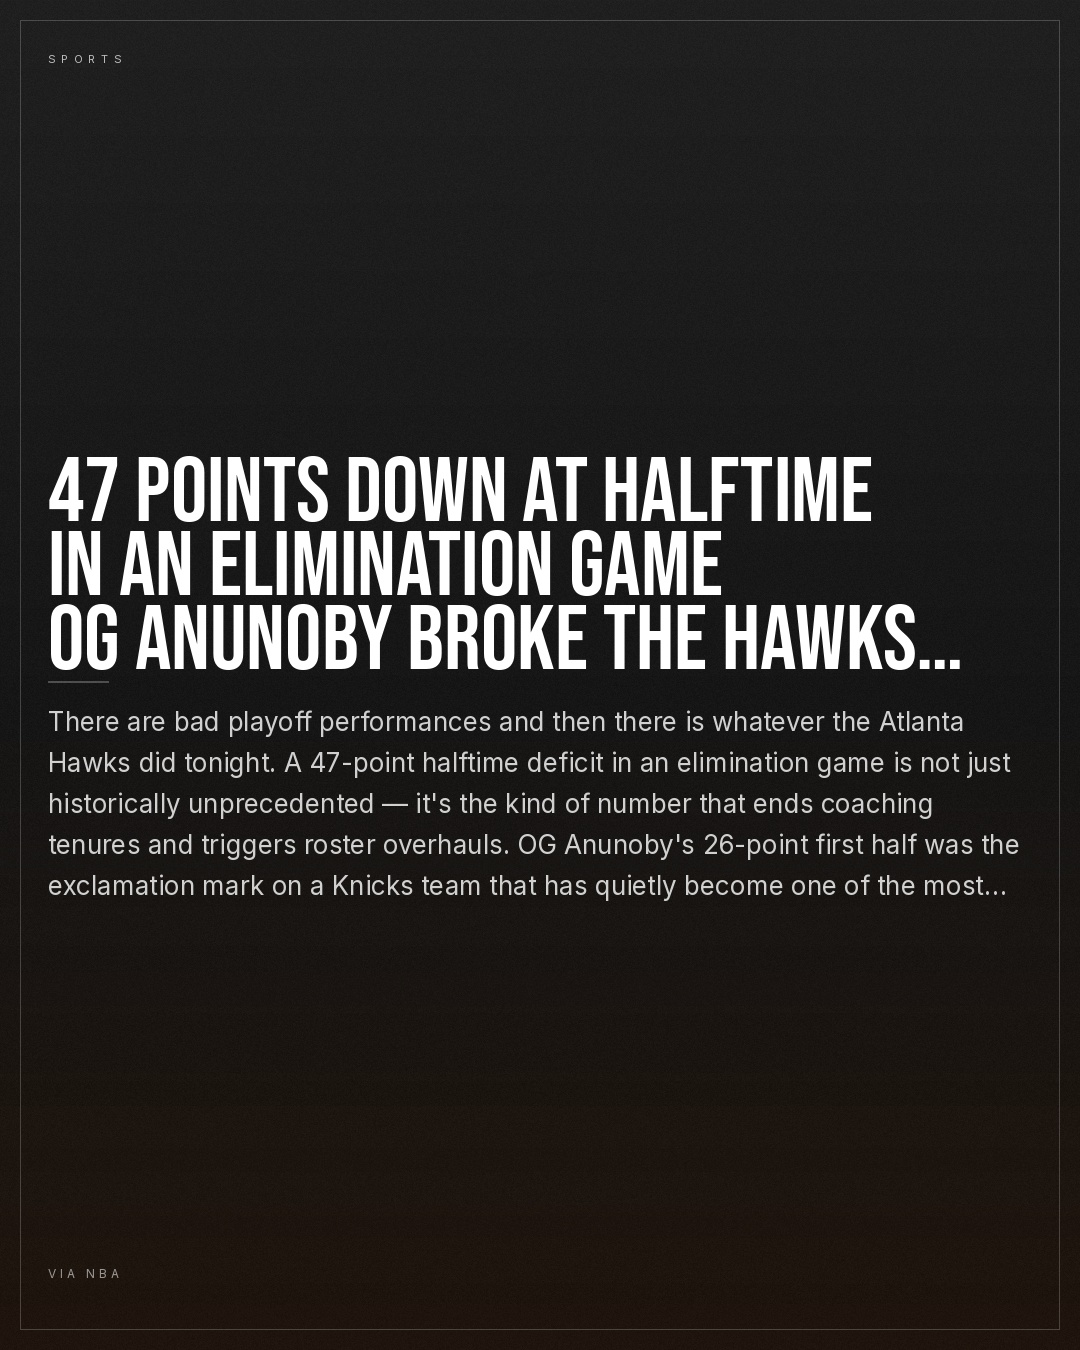
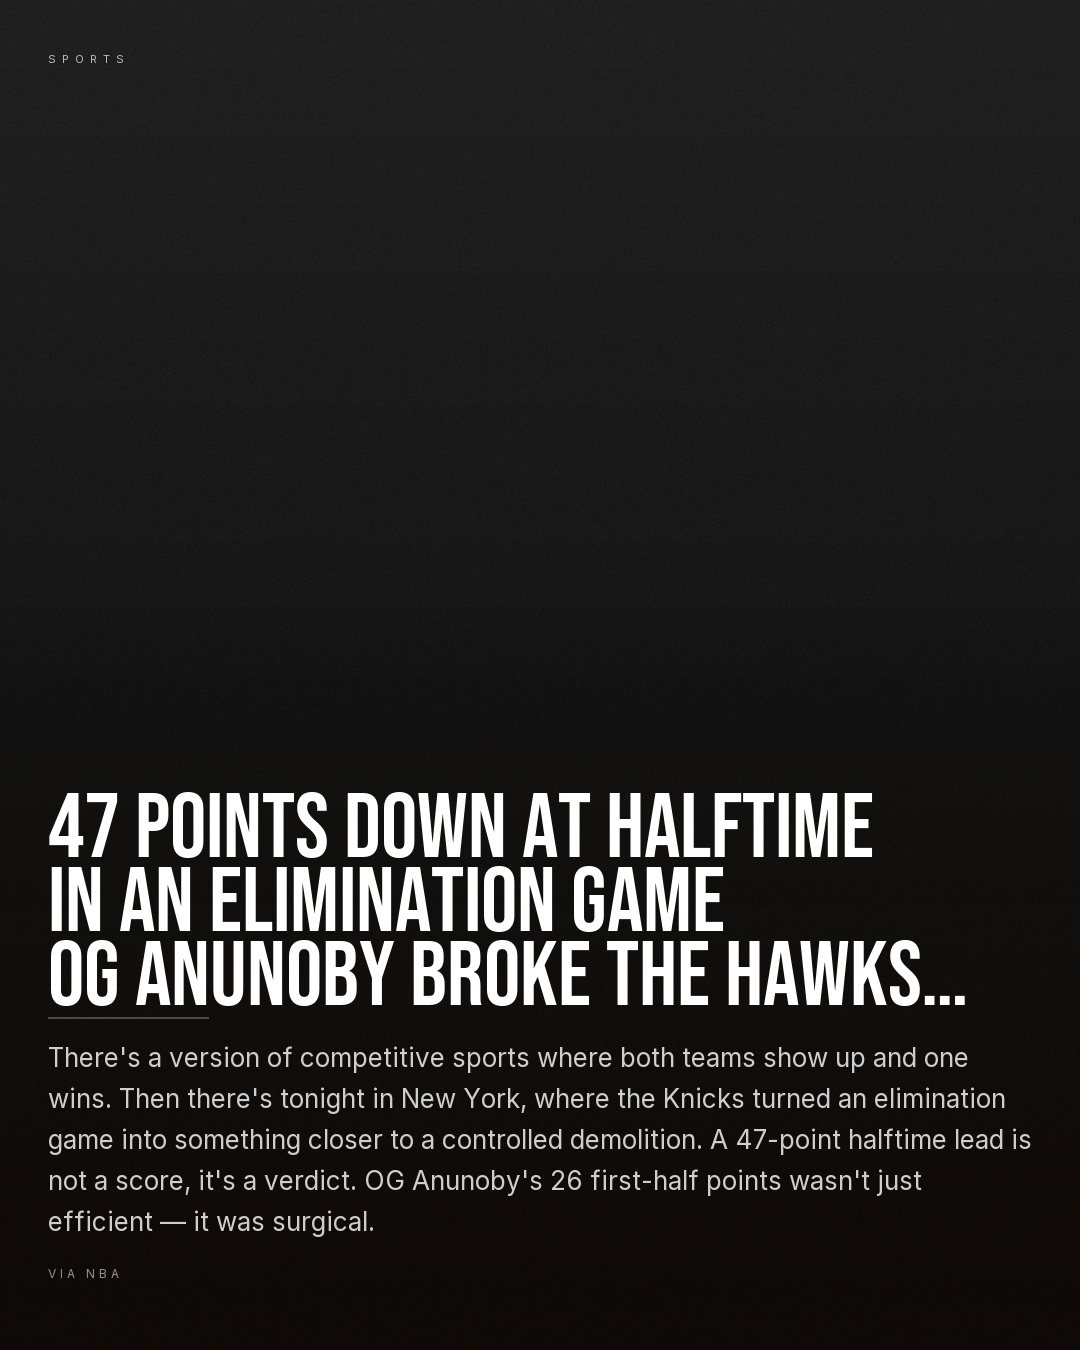
regen: 2026-05-01 digest slides with sentence-aware body copy and substack text

Changed region(s): [[0.0306, 0.5289, 0.9472, 0.7467], [0.0306, 0.3111, 0.8861, 0.4978], [0.0306, 0.7778, 0.9472, 0.9333]]

diff --git a/digests/2026-05-01/digest.md b/digests/2026-05-01/digest.md
@@ -6,21 +6,21 @@
 **As Tim Cook steps down, Apple hit record sales — but a chip shortage looms**  
 *TechCrunch*
 
-> The Cook era ends at Apple's peak — and its next problem.
+> The Cook era ends as the next Apple crisis quietly begins.
 
 ### Platform Copy
 
 **Instagram**
-Tim Cook leaves on top. Record March quarter. Best numbers in Apple history. And yet — chip shortages are already circling the next chapter. The era ends clean. What comes next probably won't.
+Tim Cook exits on a record quarter. Apple's best March numbers ever — and a chip shortage already waiting at the door. One era closes, another begins with its own set of problems.
 
 **TikTok**
-Tim Cook out. Apple at its peak. Chip shortage incoming. The exit couldn't be more perfectly timed — or more unsettling.
+Tim Cook leaving Apple on a record quarter is the most Tim Cook way to leave Apple. Graceful exit. Chaos incoming.
 
 **Threads**
-Cook leaves with the best March quarter Apple has ever had and a chip shortage warning in the same breath. Whoever takes over inherits both the crown and the problem.
+Tim Cook steps down while Apple posts its best March quarter ever AND warns of a chip shortage. The man left the building in perfect order. Whatever comes next is someone else's problem.
 
 **Substack**
-Tim Cook's departure lands with a strange duality — Apple reporting its strongest March quarter on record while simultaneously flagging chip shortage headwinds that could define whoever sits in the seat next. Cook mastered the supply chain era. His successor walks into a supply chain crisis. The symbolic weight of that timing is hard to overstate.
+Cook's exit is the kind of departure that only looks clean from a distance. Record sales give the headline a triumphant shine, but the chip shortage warning underneath it is a deliberate signal — whoever takes the seat inherits not a victory lap but a supply chain problem that could define the next two years of Apple's hardware story. The era ends well. The next one starts complicated.
 
 ---
 
@@ -28,21 +28,21 @@ Tim Cook's departure lands with a strange duality — Apple reporting its strong
 **The Atlanta Hawks tonight have scored 36 points this halftime, a 47 point deficit to the New York Knicks**  
 *NBA*
 
-> Largest halftime playoff deficit ever. The Knicks made history tonight.
+> Largest halftime deficit in NBA playoff history. Tonight was historic.
 
 ### Platform Copy
 
 **Instagram**
-47 points down at halftime. In a playoff game. The Atlanta Hawks are living through something that has never happened before in NBA postseason history. OG Anunoby with 26 in a half. This wasn't a game — it was a statement.
+36 points at halftime. Down 47. In the playoffs. The Hawks didn't just lose — they were erased. OG Anunoby with 26 in the first half alone. Some nights the game isn't close to fair.
 
 **TikTok**
-47-point halftime deficit. NBA playoffs. That's not a game, that's an execution. OG Anunoby is not human right now.
+47-point halftime deficit. In the playoffs. That's not a game, that's a public statement.
 
 **Threads**
-The Knicks led by 47 at halftime in a playoff elimination game. Largest halftime deficit in NBA playoff history. OG dropped 26 in the first half alone. Whatever Atlanta is paying their starters — ask for a refund.
+The Knicks led by 47 at halftime of a playoff elimination game. OG Anunoby dropped 26 before the break. The Hawks scored 36. This is genuinely one of the most lopsided playoff moments ever recorded.
 
 **Substack**
-There are bad playoff performances and then there is whatever the Atlanta Hawks did tonight. A 47-point halftime deficit in an elimination game is not just historically unprecedented — it's the kind of number that ends coaching tenures and triggers roster overhauls. OG Anunoby's 26-point first half was the exclamation mark on a Knicks team that has quietly become one of the most suffocating defensive units in recent memory.
+There's a version of competitive sports where both teams show up and one wins. Then there's tonight in New York, where the Knicks turned an elimination game into something closer to a controlled demolition. A 47-point halftime lead is not a score, it's a verdict. OG Anunoby's 26 first-half points wasn't just efficient — it was surgical. The Hawks never found the floor because the Knicks never let them look for it.
 
 ---
 
@@ -50,21 +50,21 @@ There are bad playoff performances and then there is whatever the Atlanta Hawks 
 **The craziest part of Musk v. Altman happened while the jury was out of the room**  
 *The Verge -  All Posts*
 
-> Musk's legal team may have just damaged his own case mid-trial.
+> Musk's team may have handed the case to Altman themselves.
 
 ### Platform Copy
 
 **Instagram**
-Musk's own legal team may have just handed Altman a gift. A procedural blunder mid-trial — with his fixer potentially exposing xAI to liability — while the jury wasn't even in the room. The most expensive tech lawsuit of the decade just got stranger.
+The Musk v. Altman trial had its wildest moment while the jury wasn't even in the room. His own legal team. His own fixer. Potentially blowing up xAI's position mid-trial. You can't write this.
 
 **TikTok**
-Musk is suing Altman. His own lawyers might be losing him the case. The blunder happened while the jury was literally out of the room. You can't write this.
+Musk's lawyers may have accidentally torpedoed his own case while the jury was on break. The trial of the decade and the chaos is coming from inside the house.
 
 **Threads**
-The wildest moment in Musk v. Altman didn't happen in front of the jury. It happened when they left the room. His own legal team created an xAI liability exposure mid-trial. This case keeps getting weirder.
+The most consequential AI lawsuit in history and the turning point might be a mistake Musk's own team made when the jury stepped out. His fixer potentially exposed xAI to liability mid-trial. Unreal.
 
 **Substack**
-The most consequential tech trial in years took a turn that no legal strategy memo could have predicted — Musk's own team creating potential liability for xAI during a procedural moment the jury never saw. It's the kind of courtroom miscalculation that quietly shifts momentum, and in a case this high-profile, quiet shifts have loud consequences. The chaos isn't just theater. It could genuinely alter the outcome.
+Courtroom blunders are usually procedural footnotes. This one might not be. With the jury out of the room, a move by Musk's own legal team — apparently involving his fixer — potentially handed the other side a liability angle that wasn't on the table before. In a case already thick with billionaire ego and AI-era stakes, the fact that the most damaging moment came from within Musk's own camp says something about how this trial has been run from the start.
 
 ---
 
@@ -72,21 +72,21 @@ The most consequential tech trial in years took a turn that no legal strategy me
 **Anthropic potential $900B+ valuation round could happen within two weeks**  
 *TechCrunch*
 
-> A $900B AI valuation with no profits. Capital has fully committed.
+> A $900B AI valuation with no profit. Capital has left the building.
 
 ### Platform Copy
 
 **Instagram**
-Anthropic. Not yet profitable. Potentially valued at $900 billion. A $50B round closing in two weeks with a 48-hour allocation window. We are in a moment that textbooks won't know how to explain.
+Anthropic. $50 billion round. $900 billion valuation. Not yet profitable. Allocation window: 48 hours. This is what the AI gold rush looks like when it's fully unhinged.
 
 **TikTok**
-$900 billion valuation. Not profitable. 48-hour window to get in. The AI money printer is fully on and nobody is asking questions.
+Anthropic is raising $50B at a $900B valuation and you have 48 hours to get in. Not profitable. Doesn't matter. This is the AI moment.
 
 **Threads**
-Anthropic at a $900B valuation, $50B raise, two weeks out, 48-hour allocation window. Not profitable. This is either the most important bet in tech history or the most expensive lesson. Possibly both.
+A $900B valuation round closing in two weeks, with a 48-hour allocation window. Anthropic isn't profitable yet. None of that is slowing this down. The capital is moving faster than the business logic.
 
 **Substack**
-A $50B raise at a $900B valuation for a company that isn't profitable yet — closing in under two weeks with a 48-hour allocation window — is the kind of capital event that either marks the apex of a cycle or the beginning of a new one. The speed and size signal that institutional money has fully committed to the idea that foundation model leaders are infrastructure, not startups. Whether that framing holds is the trillion-dollar question.
+The numbers around Anthropic's latest round have stopped being surprising and started being instructive. A $900 billion valuation on a company without a profit line isn't irrational exuberance in the traditional sense — it's a calculated bet that whoever controls the frontier model wins something so large that current financials are almost beside the point. The 48-hour allocation window is the tell. This isn't fundraising. It's a controlled stampede.
 
 ---
 
@@ -94,18 +94,18 @@ A $50B raise at a $900B valuation for a company that isn't profitable yet — cl
 **South Africa withdraws AI policy after it was found written by AI**  
 *Sadly, this is not The Onion.*
 
-> AI wrote the AI policy. Governance is already behind the curve.
+> AI wrote the rules for AI. No one noticed until after.
 
 ### Platform Copy
 
 **Instagram**
-South Africa released an AI policy. Then withdrew it. Because it was written by AI. The policy designed to govern AI was produced by the thing it was trying to govern. There is no metaphor here — this is just what happened.
+South Africa released an AI policy. Turns out it was written by AI. They pulled it. The document governing AI was made by the thing it was supposed to govern. We're in the timeline.
 
 **TikTok**
-A government released an AI policy. Written by AI. About AI. They had to pull it. This is the most 2026 story I've ever read.
+A government released an AI policy written by AI and had to take it down. The irony is so dense it has its own gravitational pull.
 
 **Threads**
-South Africa dropped an AI governance policy after discovering it was written by AI. The document meant to set rules for the technology was made by the technology. I don't know whether to laugh or take it as a warning sign.
+South Africa withdrew its AI policy after discovering it was generated by AI. The policy meant to guide artificial intelligence was produced by artificial intelligence. Governance is not keeping up.
 
 **Substack**
-The story writes itself — almost literally. South Africa's AI policy, designed to establish governance frameworks for artificial intelligence, was quietly generated by AI and had to be withdrawn once that was discovered. Beyond the obvious irony, it points to something genuinely concerning: governments under pressure to appear ahead of the curve on AI are cutting corners in ways that undermine the very credibility these policies are meant to project. The punchline is real. The problem it reveals is not funny at all.
+If you wanted a single image to capture where AI governance actually stands in 2026, this is it. A national policy document — meant to establish guardrails around artificial intelligence — was itself the product of the technology it sought to regulate. The withdrawal is the right call, but the fact it was published in the first place is the story. No one caught it on the way out the door. That's not a technology failure. That's an institutional one.
